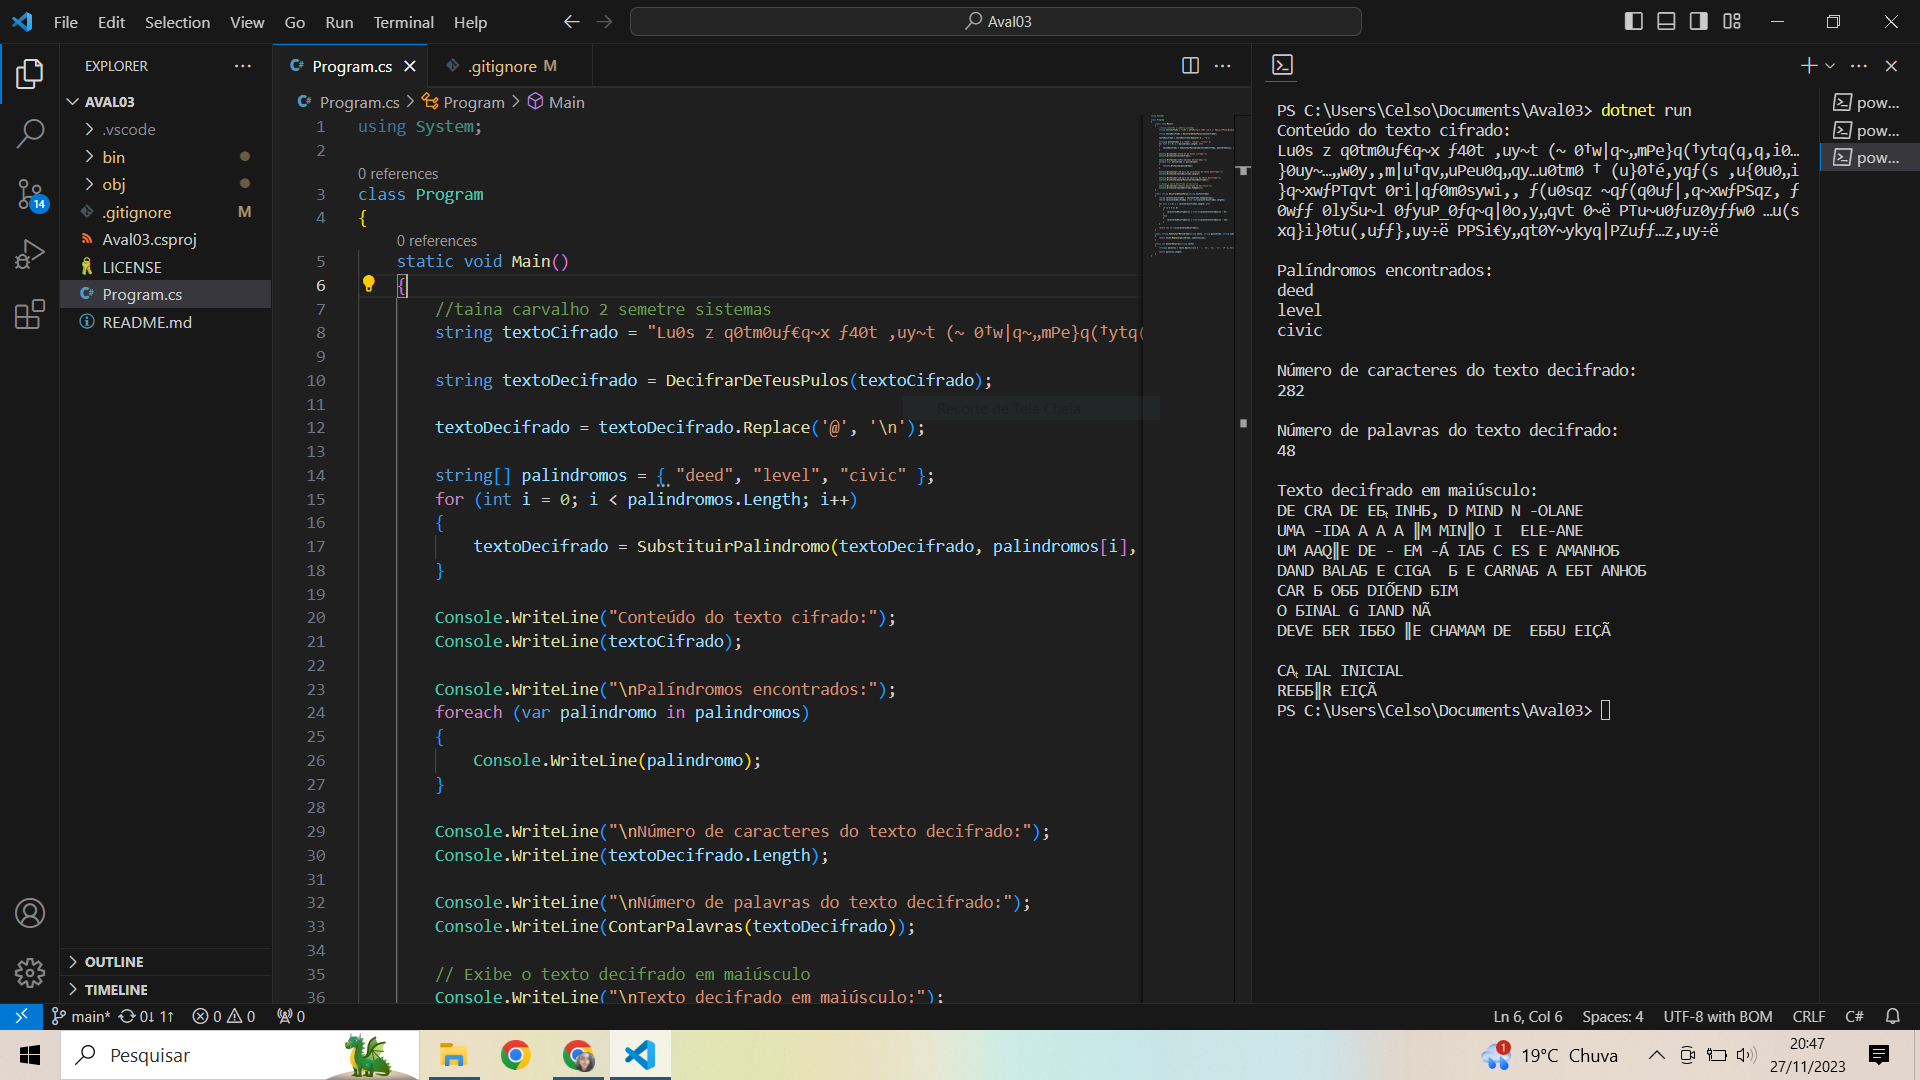
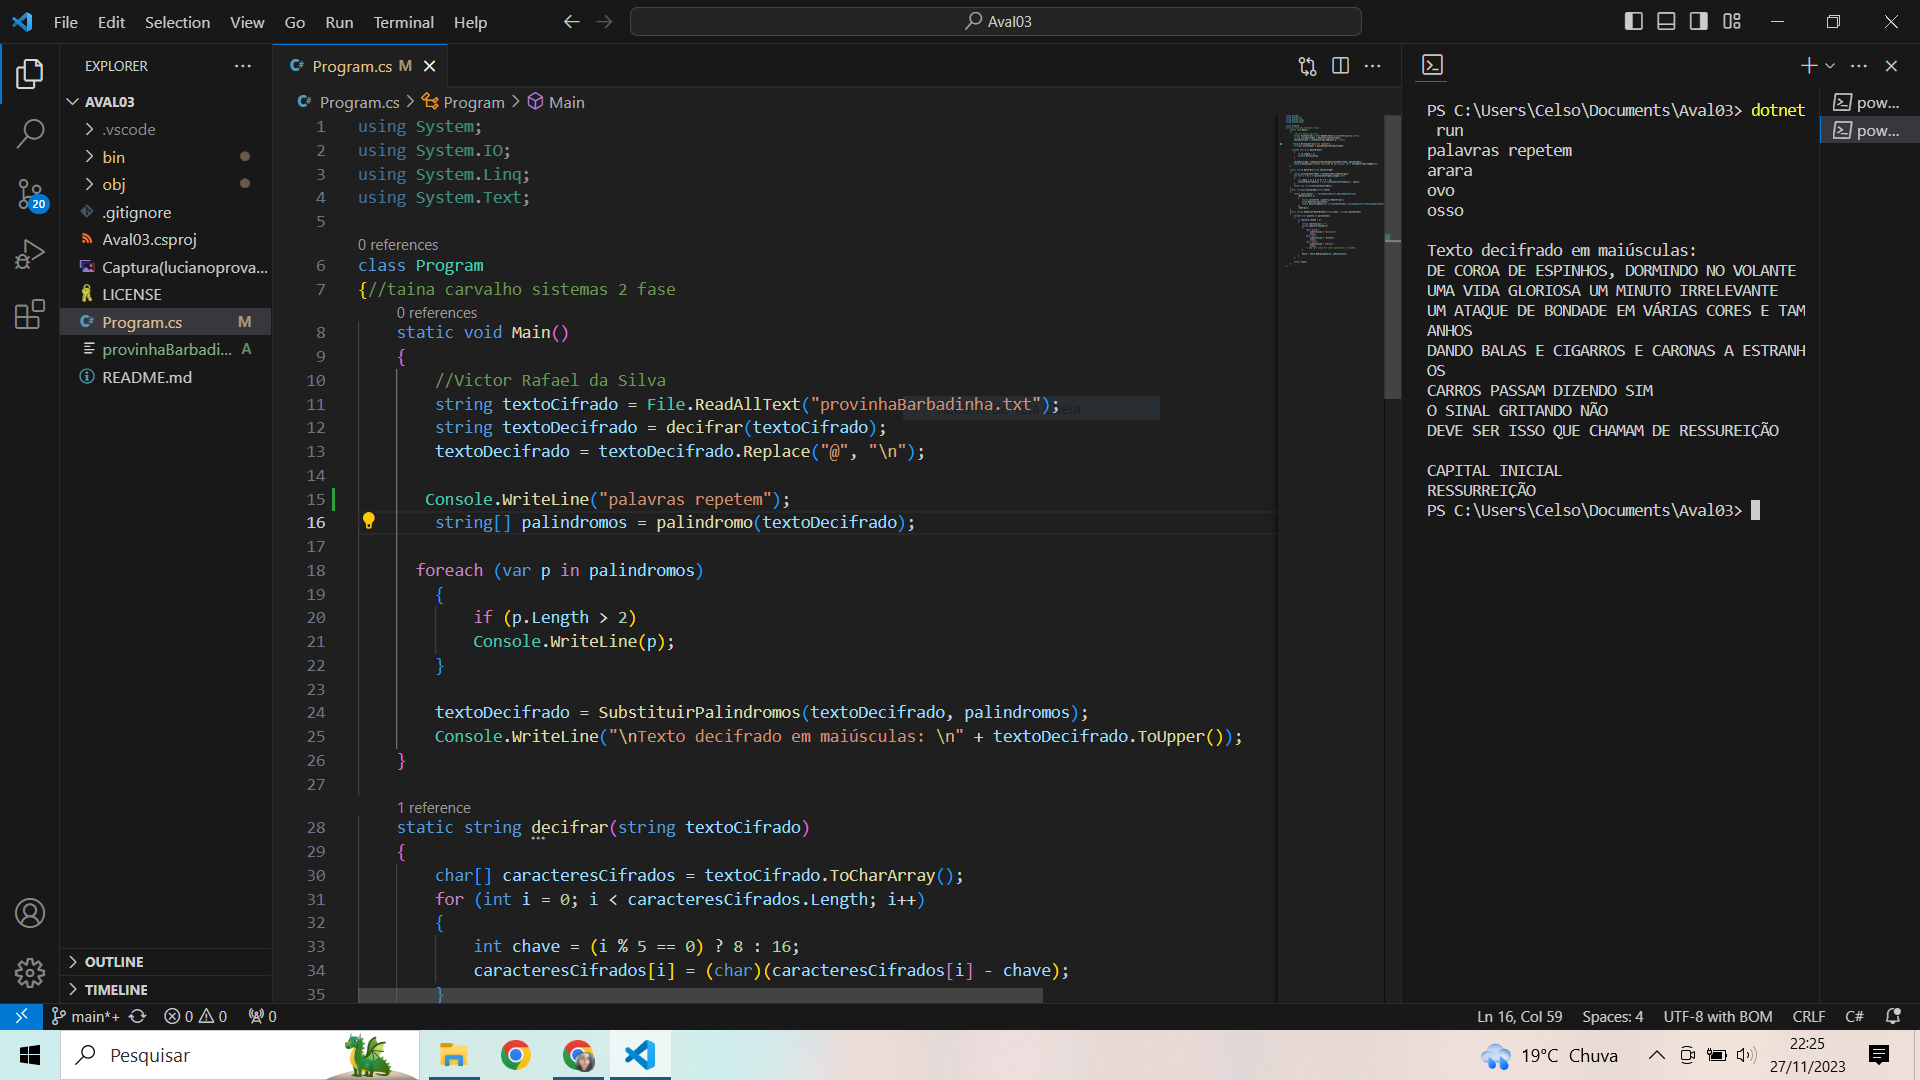
mudanças cdigo alteração palindromo

diff --git a/Program.cs b/Program.cs
@@ -1,71 +1,76 @@
 using System;
+using System.IO;
+using System.Linq;
+using System.Text;
 
 class Program
-{
+{//taina carvalho sistemas 2 fase
     static void Main()
     {
-        //taina carvalho 2 semetre sistemas
-        string textoCifrado = "Lu0s z q0tm0uƒ€q~x ƒ40t ‚uy~t (~ 0†w|q~„mPe}q(†ytq(q‚q‚i0…}0uy~…„w0y‚‚m|u†qv„uPeu0q„qy…u0tm0 † (u}0†é‚yqƒ(s ‚u{0u0„i}q~xwƒPTqvt 0ri|qƒ0m0sywi‚‚ ƒ(u0sqz ~qƒ(q0uƒ|‚q~xwƒPSqz‚ ƒ0wƒƒ 0lyŠu~l 0ƒyuP_0ƒq~q|0o‚y„qvt 0~ë PTu~u0ƒuz0yƒƒw0 …u(sxq}i}0tu(‚uƒƒ}‚uy÷ë PPSi€y„qt0Y~ykyq|PZuƒƒ…z‚uy÷ë ";
+        //Victor Rafael da Silva
+        string textoCifrado = File.ReadAllText("provinhaBarbadinha.txt");
+        string textoDecifrado = decifrar(textoCifrado);
+        textoDecifrado = textoDecifrado.Replace("@", "\n");
 
-        string textoDecifrado = DecifrarDeTeusPulos(textoCifrado);
+       Console.WriteLine("palavras repetem");
+        string[] palindromos = palindromo(textoDecifrado);
 
-        textoDecifrado = textoDecifrado.Replace('@', '\n');
-
-        string[] palindromos = { "deed", "level", "civic" }; 
-        for (int i = 0; i < palindromos.Length; i++)
+      foreach (var p in palindromos)
         {
-            textoDecifrado = SubstituirPalindromo(textoDecifrado, palindromos[i], new[] { "gloriosa", "bondade", "passam" }[i]);
+            if (p.Length > 2)
+            Console.WriteLine(p);
         }
 
-        Console.WriteLine("Conteúdo do texto cifrado:");
-        Console.WriteLine(textoCifrado);
-
-        Console.WriteLine("\nPalíndromos encontrados:");
-        foreach (var palindromo in palindromos)
-        {
-            Console.WriteLine(palindromo);
-        }
-
-        Console.WriteLine("\nNúmero de caracteres do texto decifrado:");
-        Console.WriteLine(textoDecifrado.Length);
-
-        Console.WriteLine("\nNúmero de palavras do texto decifrado:");
-        Console.WriteLine(ContarPalavras(textoDecifrado));
-
-        // Exibe o texto decifrado em maiúsculo
-        Console.WriteLine("\nTexto decifrado em maiúsculo:");
-        Console.WriteLine(textoDecifrado.ToUpper());
+        textoDecifrado = SubstituirPalindromos(textoDecifrado, palindromos);
+        Console.WriteLine("\nTexto decifrado em maiúsculas: \n" + textoDecifrado.ToUpper());
     }
 
-    static string DecifrarDeTeusPulos(string textoCifrado)
+    static string decifrar(string textoCifrado)
     {
         char[] caracteresCifrados = textoCifrado.ToCharArray();
-        char[] caracteresDecifrados = new char[caracteresCifrados.Length];
-
         for (int i = 0; i < caracteresCifrados.Length; i++)
         {
-            if (i % 5 == 0)
+            int chave = (i % 5 == 0) ? 8 : 16;
+            caracteresCifrados[i] = (char)(caracteresCifrados[i] - chave);
+        }
+        return new string(caracteresCifrados);
+    }
+    static string[] palindromo(string texto)
+    {
+        return texto.Split(' ', StringSplitOptions.RemoveEmptyEntries)
+            .Where(palavra =>
             {
-                caracteresDecifrados[i] = (char)(caracteresCifrados[i] - 8);
-            }
-            else
+                char[] caracteres = palavra.ToCharArray();
+                Array.Reverse(caracteres);
+                return palavra.Equals(new string(caracteres), StringComparison.OrdinalIgnoreCase);
+            })
+            .ToArray();
+    }
+    static string SubstituirPalindromos(string texto, string[] palindromos)
+    {
+        foreach (var palavra in palindromos)
+        {
+            if (palavra.Length > 2)
             {
-                caracteresDecifrados[i] = (char)(caracteresCifrados[i] - 16);
+                string substituicao = "";
+                switch (palavra.ToLower())
+                {
+                    case "arara":
+                        substituicao = "gloriosa";
+                        break;
+                    case "ovo":
+                        substituicao = "bondade";
+                        break;
+                    case "osso":
+                        substituicao = "passam";
+                        break;
+                    // Add more cases for other palindromes if needed
+                }
+
+                texto = texto.Replace(palavra, substituicao);
             }
         }
 
-        return new string(caracteresDecifrados);
-    }
-
-    static string SubstituirPalindromo(string texto, string palindromo, string substituicao)
-    {
-        return texto.Replace(palindromo, substituicao);
-    }
-
-    static int ContarPalavras(string texto)
-    {
-        string[] palavras = texto.Split(new[] { ' ', '\t', '\n', '\r', '\f' }, StringSplitOptions.RemoveEmptyEntries);
-
-        return palavras.Length;
+        return texto;
     }
 }
